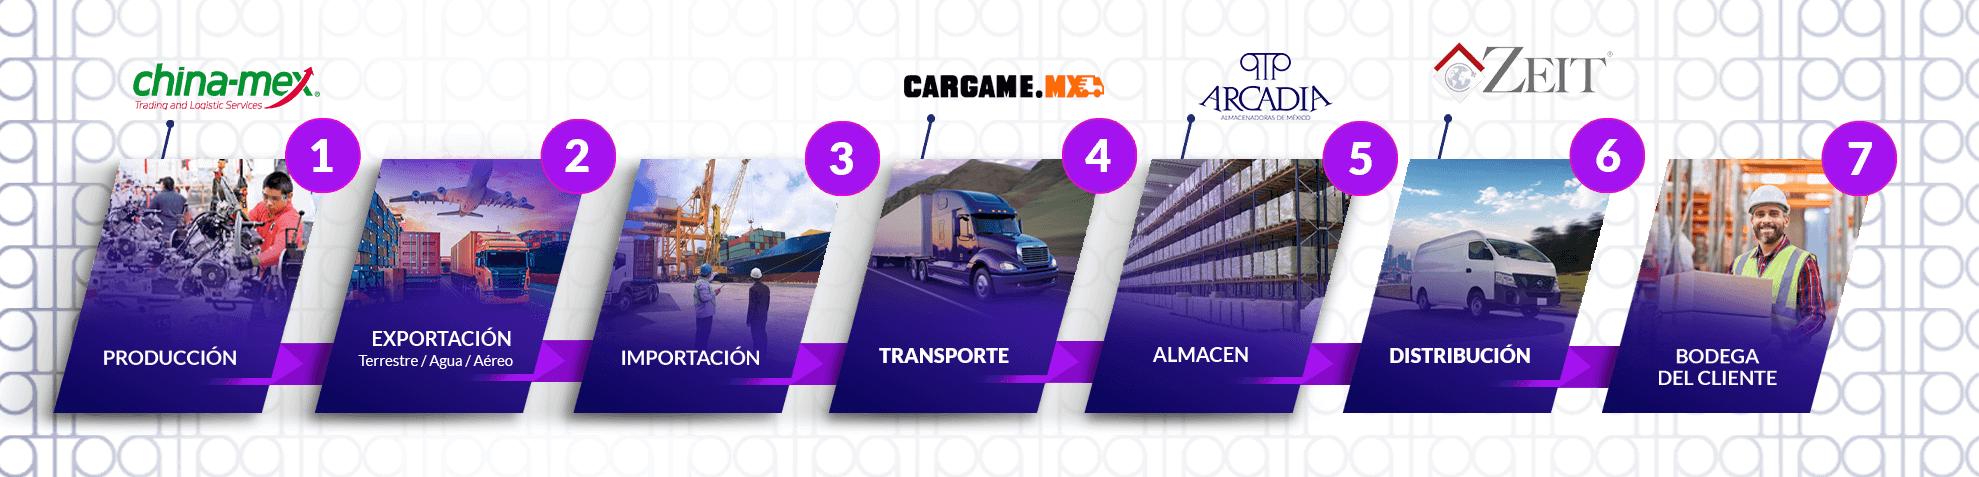
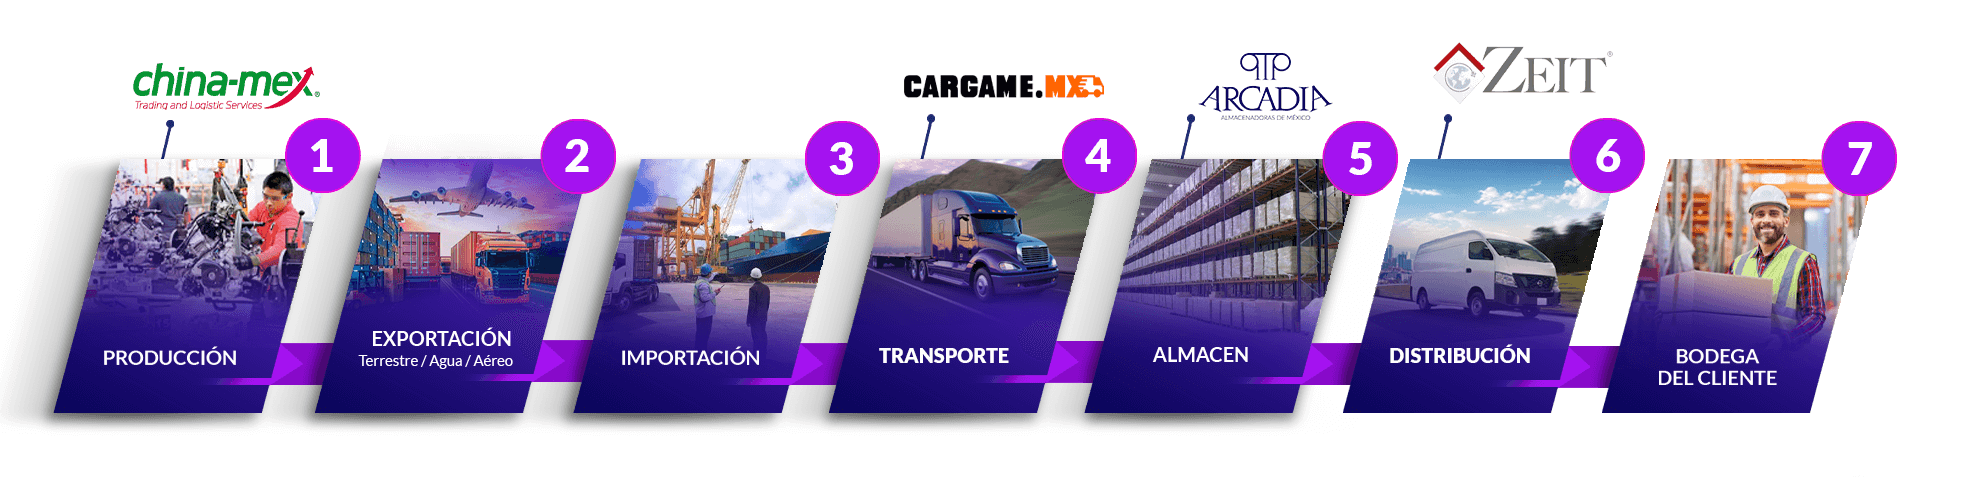
mapa añadido, colores de servicios actualizados, accion de botones comentado, actualizar imagen de proceso, falta agregar tooltip

diff --git a/styles.css b/styles.css
@@ -10,6 +10,14 @@
   /* btn naranja */
   --fstOrng: #ff9800;
   --secOrgn: #f6412d;
+  /* cargame */
+  --bgCargame: #ff6400;
+  /* chinamex */
+  --bgChinamex: #008e36;
+  /* arcadia */
+  --bgArcadia: #263178;
+  /* zeit */
+  --bgZeit: #ffffff;
 }
 
 html {
@@ -228,8 +236,8 @@ ul {
 }
 
 #pt2 > img {
-  width: 80%;
-  height: 80%;
+  width: 60%;
+  margin: 5% 0;
 }
 
 /* End part 2 */
@@ -369,19 +377,19 @@ ul {
 }
 
 .chmex {
-  background-color: green;
+  background-color: var(--bgChinamex);
 }
 
 .arcadia {
-  background-color: blue;
+  background-color: var(--bgArcadia);
 }
 
 .cargame {
-  background-color: orangered;
+  background-color: var(--bgCargame);
 }
 
 .zeit {
-  background-color: white;
+  background-color: var(--bgZeit);
 }
 
 /* End part 3 */

diff --git a/index.html b/index.html
@@ -81,8 +81,8 @@
       <div id="pt2">
         <p>Entregamos servicios integrales de comercialización almacenamiento y 
           logística de la más alta calidad a lo largo de toda la cadena de suministro.</p>
-        <!-- <img src="src/img/presencia.png" alt="presencia" /> -->
-        <div id="presencia-container"></div>
+        <img src="src/img/presencia.png" alt="presencia" />
+        <!-- <div id="presencia-container"></div> -->
         <!-- <div class="tooltip">Hover over me
           <span class="tooltiptext">Tooltip text</span>
         </div> -->

diff --git a/main.js b/main.js
@@ -21,10 +21,10 @@ phoneBtn.onclick = () => {
   }
 };
 
-contactBtn.onclick = () => {
-  location.href = "https://calendly.com/arcadia-almacenadoras/30min";
-}
+// contactBtn.onclick = () => {
+//   location.href = "https://calendly.com/arcadia-almacenadoras/30min";
+// }
 
-contactBtn2.onclick = () => {
-  location.href = "https://calendly.com/arcadia-almacenadoras/30min";
-}
+// contactBtn2.onclick = () => {
+//   location.href = "https://calendly.com/arcadia-almacenadoras/30min";
+// }
